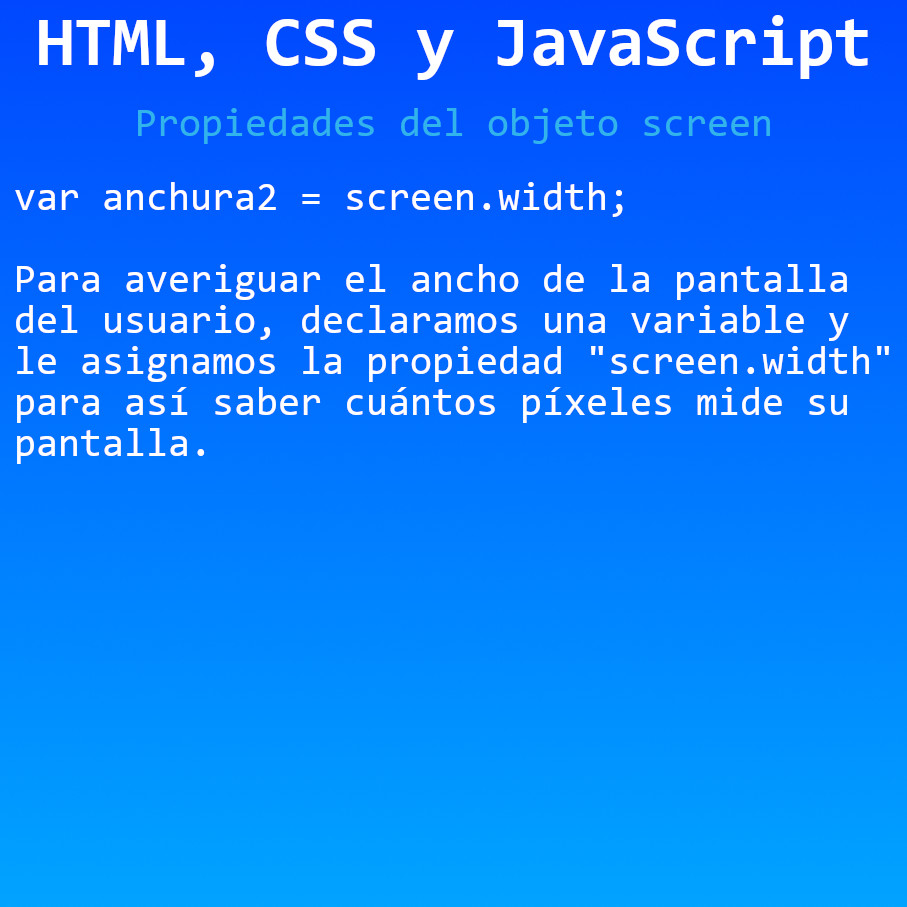
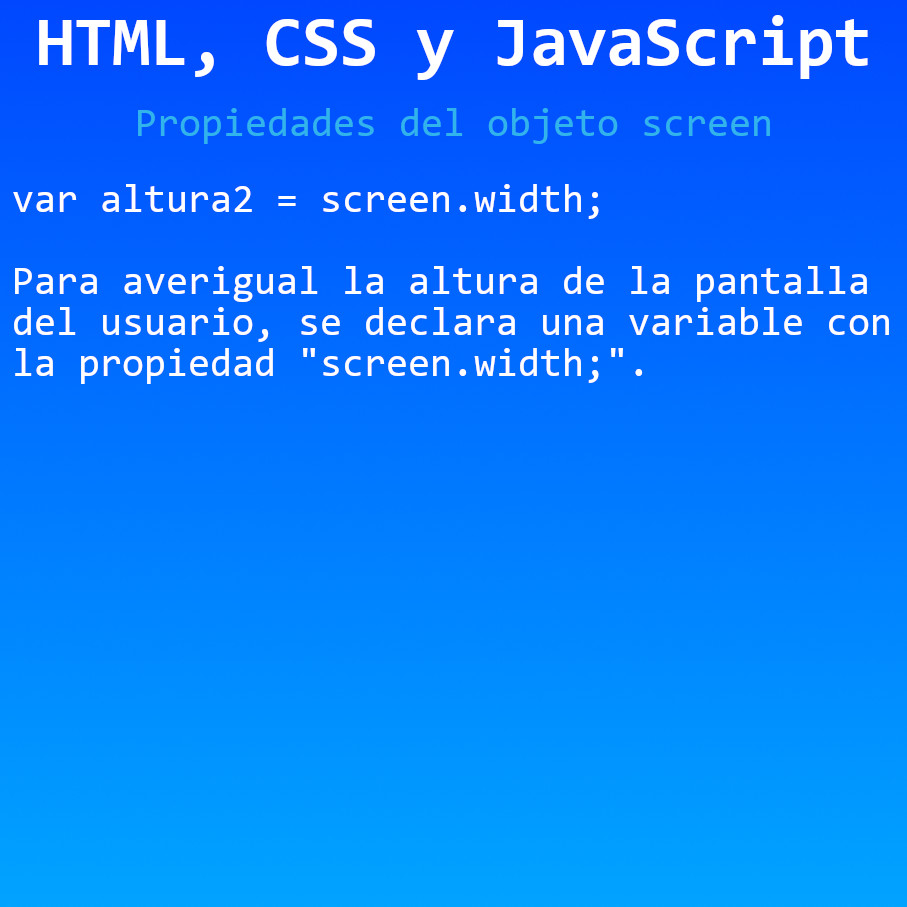
Propiedades del objeto screen
Propiedades del objeto screen en JavaScript

Changed region(s): [[0.0, 0.2778, 0.9879, 0.5248], [0.0, 0.1852, 0.6792, 0.247]]

diff --git a/HTML, CSS y JavaScript/Propiedades del objeto screen/js/funciones.js b/HTML, CSS y JavaScript/Propiedades del objeto screen/js/funciones.js
@@ -16,3 +16,9 @@ var anchura2 = screen.width;
 document.write("Anchura: "+anchura2+"px.");
 // SEPARACIÓN
 document.write("<hr>");
+// AVERIGUAR ALTO DE PANTALLA DEL USUARIO
+var altura2 = screen.width;
+// mostrar en pantalla
+document.write("Altura: "+altura2+"px.");
+// SEPARACIÓN
+document.write("<hr>");
